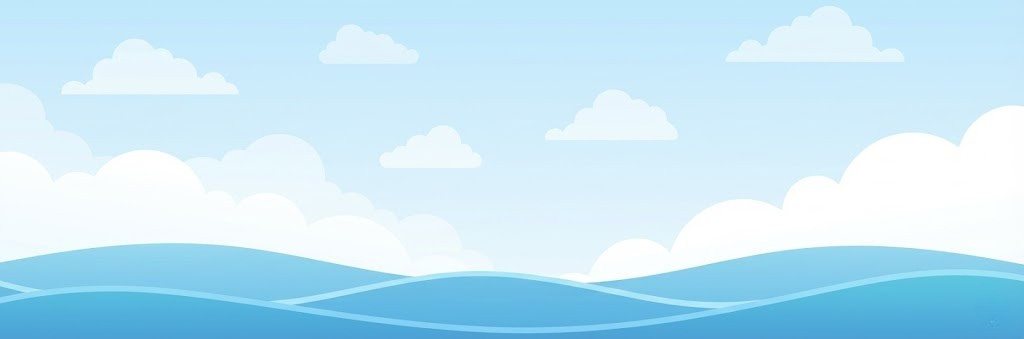
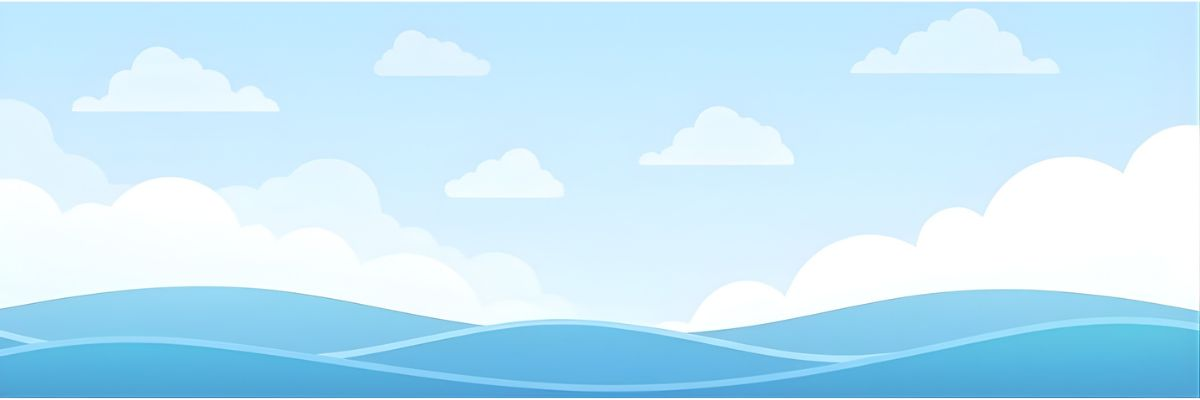
baner homepage 2

diff --git a/client/src/pages/home/HomePage.css b/client/src/pages/home/HomePage.css
@@ -9,10 +9,10 @@
 .daily-quest-banner {
   /* Background image với overlay màu xanh */
   background-image:
-    linear-gradient(135deg, rgba(135, 206, 235, 0.85) 0%, rgba(77, 166, 255, 0.85) 100%),
+    linear-gradient(135deg, rgba(255, 255, 255, 0) 0%, rgba(255, 255, 255, 0) 100%),
     url('/src/assets/images/ocean-wave.jpg');
   background-size: cover; /* Ảnh sẽ phủ kín toàn bộ banner */
-  background-position: center; /* Căn giữa ảnh */
+  background-position: bottom; /* Căn giữa ảnh */
   background-repeat: no-repeat; /* Không lặp lại ảnh */
 
   border-radius: var(--border-radius-lg);
@@ -79,7 +79,7 @@
 }
 
 .quest-title {
-  color: white;
+  color: rgb(24, 24, 24);
   font-size: var(--font-size-3xl);
   font-weight: 700;
   margin: 0 0 var(--spacing-sm) 0;
@@ -87,7 +87,7 @@
 }
 
 .quest-description {
-  color: rgba(255, 255, 255, 0.95);
+  color: rgba(24, 24, 24, 0.95);
   font-size: var(--font-size-lg);
   margin: 0;
   font-weight: 500;
